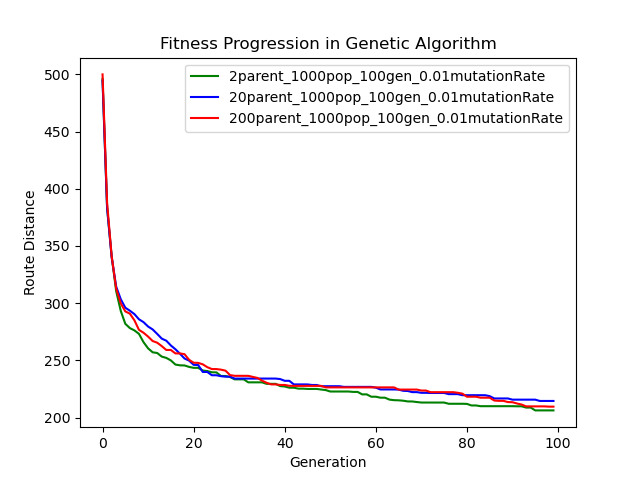
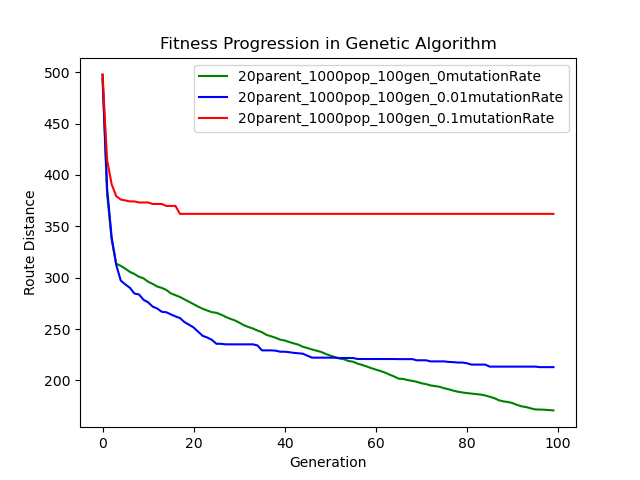
multiGreedy

diff --git a/project.py b/project.py
@@ -2,7 +2,7 @@ from multiprocessing import Pool, cpu_count
 import random
 import math
 import csv
-import matplotlib.pyplot as plt
+# import matplotlib.pyplot as plt
 import functools
 import time
 vis = dict()
@@ -25,6 +25,8 @@ def crossover(parent1, parent2, cities=cities):
     vis = [0 for _ in range(len(parent1))]
     p, q = 0, 0
     child = []
+    parent1 = parent1[:-1]
+    parent2 = parent2[:-1]
     child.append(random.randint(0, len(cities) - 1))
     vis[child[0]] = 1
     while len(child) < len(parent1) and p < len(parent1) and q < len(parent2):
@@ -65,11 +67,13 @@ def crossover(parent1, parent2, cities=cities):
 #     child = parent1[:len(parent1) // 2]
 #     child += [gene for gene in parent2 if gene not in child]
 #     return child
+greedy_ans = []
 # 貪婪算法
 def greedy_algorithm(cities , i):
     visited = [i]  # 從第一個城市開始
-    unvisited = list(range(0, len(cities)))
-    unvisited[i] = 0
+    # unvisited = list(range(0, len(cities)))
+    unvisited = [j for j in range(len(cities))]
+    unvisited.remove(i)
     current_city = i
     total_distance = 0
 
@@ -148,39 +152,20 @@ def record_route(route):
 # 遺傳算法的主要邏輯
 def genetic_algorithm(cities, pop_size=10, generations=10, mutation_rate=0.01):
     num_cities = len(cities)
-    # population = init_arr
     population = initialize_population(pop_size, pop_size=pop_size , num_cities=num_cities)
     with Pool(processes=cpu_count()) as pool:
         population = pool.map(close_route, population)
-        # pool.map(record_route, population)
-    # print(population)
-    # return None
     best_fitness_history = []
     avg_fitness_history = []
-    # plt.ion()
-    # fig, ax = plt.subplots(figsize=(10, 6))
-    # ax.set_xlabel('Generation')
-    # ax.set_ylabel('Route Distance')
-    # ax.set_title('Fitness Progression in Genetic Algorithm')
-
     for gen in range(generations):
         print(f'gen = {gen}')
-        gen+=1
         fitness_values = evaluate_population(population, cities)
         best_fitness = min(fitness_values)
         avg_fitness = sum(fitness_values) / len(fitness_values)
         best_fitness_history.append(best_fitness)
         avg_fitness_history.append(avg_fitness)
 
-        # 更新圖表
-        # ax.clear()
-        # ax.plot(range(gen + 1), best_fitness_history, label='Best Fitness', color='blue')
-        # ax.plot(range(gen + 1), avg_fitness_history, label='Average Fitness', color='red')
-        # ax.legend()
-        # plt.pause(0.001)
-
         parents = select_parents(population, cities)
-        # 使用多處理生成子代
         with Pool(processes=cpu_count()) as pool:
             new_population = parents + pool.map(generate_child, [(random.choice(parents), random.choice(parents), mutation_rate, cities) for _ in range(pop_size - len(parents))])
         population = new_population
@@ -195,6 +180,8 @@ def evaluate_population(population, cities):
 
 
 def main():
+    with Pool(processes=cpu_count()) as pool:
+        init_arr = pool.starmap(greedy_algorithm, [(cities , i) for i in range(len(cities))])
     # greedy_ans = greedy_algorithm(cities , 0)
     # init_arr.append(greedy_ans[0])
     # for i in range(len(cities)):
@@ -202,9 +189,12 @@ def main():
     #     init_arr.append(now[0])
     #     if now[1] < greedy_ans[1]:
     #         greedy_ans = now
-    # print(greedy_ans)
-    pop = 500
-    gen = 100
+    greedy_ans = min(init_arr , key=lambda x: x[1])
+    print(greedy_ans)
+
+
+    pop = 1000
+    gen = 10
     mutate = 0
 
     start_time = time.time()
@@ -220,7 +210,7 @@ def main():
     plt.plot(range(len(best_fitness_history)), best_fitness_history, label=f"{sz}parent_{pop}pop_{gen}gen_{mutate}mutationRate" ,color='green')
 
 
-    pop = 1000
+    mutate = 0.01
     start_time = time.time()
     best_route, best_distance, best_fitness_history, avg_fitness_history = genetic_algorithm(pop_size=pop , generations=gen , mutation_rate=mutate, cities=cities)
     end_time = time.time()
@@ -233,7 +223,7 @@ def main():
     print(f'execute time: {hour} h {minute} m {sec} sec')
     plt.plot(range(len(best_fitness_history)), best_fitness_history, label=f"{sz}parent_{pop}pop_{gen}gen_{mutate}mutationRate" ,color='blue')
 
-    pop = 1500
+    mutate = 0.1
     start_time = time.time()
     best_route, best_distance, best_fitness_history, avg_fitness_history = genetic_algorithm(pop_size=pop , generations=gen , mutation_rate=mutate ,cities=cities)
     print(f"Best Route: {best_route}")
